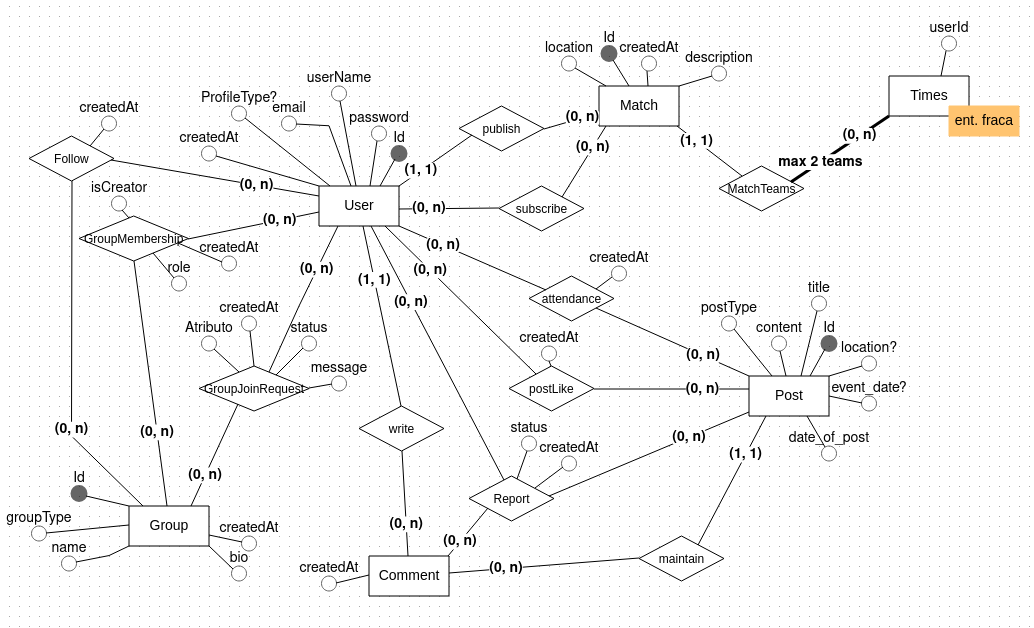
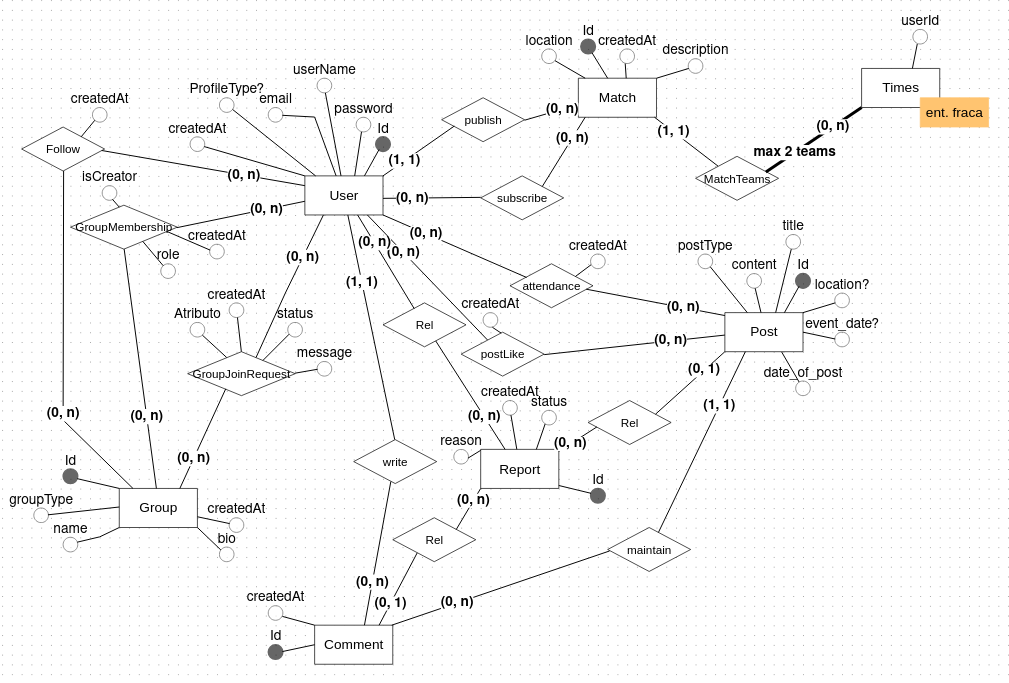
docs(arquitetura_ata): descrição do MER e criação de atas.

Changed region(s): [[0.0, 0.0, 1.0, 0.9984], [0.6452, 0.6656, 0.7066, 0.7261], [0.7066, 0.6959, 0.7374, 0.7564]]

diff --git a/docs/arquitetura/definicoes_gerais.md b/docs/arquitetura/definicoes_gerais.md
@@ -9,34 +9,40 @@
 O sistema adota o **estilo arquitetural cliente-servidor**, amplamente utilizado em aplicações que exigem comunicação estruturada entre uma interface de usuário e um servidor central responsável pelo processamento e persistência dos dados.
 
 Nesse modelo, existe uma **divisão clara de responsabilidades**:
+
 - O **cliente** é responsável pela interação com o usuário e pela coleta/envio de informações.  
+
 - O **servidor** executa as regras de negócio, processa as requisições e gerencia o acesso seguro aos dados.
 
 Essa separação facilita a **escalabilidade, manutenção e evolução** do sistema, permitindo que as camadas sejam desenvolvidas e atualizadas de forma independente.
 
 ## Componentes Conceituais do Sistema
 
-1. **Frontend (Cliente):**
-   - Desenvolvido em **React Native**, possibilitando o uso do sistema em **dispositivos móveis (Android e iOS)**.
+1. **Frontend (Cliente):** 
+
+      - Desenvolvido em **React Native**, possibilitando o uso do sistema em **dispositivos móveis (Android e iOS)**.
    - Responsável pela interface e experiência do usuário (UI/UX), com base em protótipos elaborados no **Figma**.
    - Consome os serviços do backend por meio de **requisições HTTP/HTTPS**, trocando dados no formato **JSON**.
    - Implementa as principais funcionalidades de interação, como autenticação, exibição de dados e envio de formulários.
 
 2. **Backend (Servidor):**
-   - Implementa uma **API RESTful**, centralizando as regras de negócio e o controle de acesso.
+
+      - Implementa uma **API RESTful**, centralizando as regras de negócio e o controle de acesso.
    - Recebe requisições dos clientes, processa as informações e retorna respostas estruturadas.
    - Gerencia a lógica de autenticação, autorização e persistência de dados.
    - Utiliza padrões de organização como **MVC (Model-View-Controller)** ou equivalentes, garantindo modularidade e clareza.
    - Interage com o banco de dados via **Prisma ORM**, simplificando consultas, migrações e manutenção do esquema de dados.
 
 3. **Banco de Dados:**
-   - Utiliza o **PostgreSQL**, um sistema gerenciador de banco de dados relacional (SGBD) robusto e open source.
+
+      - Utiliza o **PostgreSQL**, um sistema gerenciador de banco de dados relacional (SGBD) robusto e open source.
    - Responsável pelo **armazenamento seguro e persistente** das informações do sistema.
    - Oferece recursos avançados como **integridade referencial**, **transações ACID** e **consultas otimizadas**.
    - O **Prisma ORM** atua como camada de abstração, permitindo que o backend execute operações no banco de dados de forma segura, tipada e eficiente.
 
 4. **Camada de Comunicação:**
-   - A comunicação entre cliente e servidor é feita via **protocolo HTTP/HTTPS**.
+
+      - A comunicação entre cliente e servidor é feita via **protocolo HTTP/HTTPS**.
    - Segue o padrão **REST**, com endpoints organizados por recursos.
    - Os dados trafegam em formato **JSON**, garantindo compatibilidade entre plataformas.
    - A autenticação é realizada por meio de **tokens JWT**, assegurando sessões seguras e controle de permissões.
@@ -53,9 +59,6 @@ Essa separação facilita a **escalabilidade, manutenção e evolução** do sis
 > **Resumo:**  
 > O modelo cliente-servidor foi adotado por proporcionar uma estrutura modular, segura e escalável.  
 > A combinação de **React Native** para o cliente, **PostgreSQL + Prisma** para persistência de dados e **Figma** como ferramenta de design oferece uma base sólida para o desenvolvimento e evolução do sistema.
-
-
-entrega: `Texto técnico`
 
 ### 2.1.2  Justificativa de escolha
 > Justificar tecnicamente a arquitetura escolhida, relacionando-a com os requisitos funcionais e não funcionais do sistema.

diff --git a/docs/arquitetura/abstracao_implemantacao.md b/docs/arquitetura/abstracao_implemantacao.md
@@ -20,7 +20,32 @@ O Modelo Entidade-Relacionamento (MER) do sistema foi desenvolvido para represen
 <p align="center"><em>Figura 2.4.1 - Modelo Entidade-Relacionamento (MER) do Sistema</em></p>
 <p align="center"><em>Fonte: <a href="https://github.com/CODEbugging3000">Gabriel Alves</a></em></p>
 
+O MER inclui as seguintes entidades principais:
 
+- **User (Usuário):** Representa os usuários do sistema, com atributos principais como ID, nome, userName, email e senha, ProfileType (tipo de perfil).
+- **Group (Grupo):** Representa grupos de usuários, com atributos como ID, nome, bio, groupType (tipo de grupo que pode ser ATLÉTICA ou AMADOR).
+- **Post (Publicação):** Representa as publicações feitas pelos usuários admins de grupos, contendo atributos como ID, title, content (conteúdo), date_of_post (data e hora da publicação), postType (tipo de publicação que pode ser EVENTO ou GERAL), location e event_date opcionais para eventos.
+- **Comment (Comentário):** Representa os comentários feitos pelos usuários nas publicações, com atributos como ID, content (conteúdo) e createdAt (data e hora do comentário).
+- **Match (Partida):** Representa partidas esportivas organizadas por grupos, com atributos como ID, home_team (time da casa), away_team (time visitante), match_date (data e hora da partida), location (local) e score_home e score_away para o placar.
+- **Teams (Times):** Entidade fraca que representa os times associados as partidas, com apenas um atributo userId.
+- **Report (Denúncia):** Representa denúncias feitas por usuários contra publicações ou comentários, com atributos como ID, reason (motivo) e createdAt (data e hora da denúncia).
+
+Os relacionamentos entre as entidades são definidos para refletir as interações e dependências do sistema, como a associação entre usuários e grupos, publicações e comentários, e partidas e times. Foram identificados os tipos de relacionamentos (1:1, 1:N, N:M) e as cardinalidades para garantir a integridade dos dados.
+
+Os relacionamentos principais incluem:
+- Um **User** pode pertencer a muitos **Groups** (N:M), e um **Group** pode ter muitos **Users**.
+- Um **User** pode seguir **(Follow)** muitos **Groups** (N:M), e um **Group** pode ser seguido por muitos **Users**.
+- Um **User** pode criar muitas **Posts** (1:N), e cada **Post** é criado por um único **User** desde que seja um admin de um **Group**.
+- Um **Post** pode ter muitos **Comments** (1:N), e cada **Comment** é associado a um único **Post**.
+- Um **User** pode curtir **(postLike)** muitas **Posts** (N:M), e um **Post** pode ser curtido por muitos **Users**.
+- Um **User** pode fazer vários **Comments** (1:N), e cada **Comment** é feito por um único **User**.
+- Um **User** pode marcar presença **(attendance)** em muitos **Events** (N:M), e um **Event** pode ter muitos **Users** presentes.
+- Um **User** pode denunciar **(Report)** muitas **Posts** e **Comments** (1:N), e cada **Report** é feito por um único **User**.
+- Um **User** pode criar **(publish)** muitas **Matches** (1:N), e cada **Match** é criada por um único **User**.
+- Um **User** pode se inscrever em muitas **Matches** (N:M), e uma **Match** pode ter muitos **Users** inscritos.
+- Uma **Match** tem dois **Teams** (1:2), e cada **Team** está associada a uma única **Match**.
+
+Os atributos de cada entidade foram cuidadosamente definidos para capturar todas as informações necessárias para o funcionamento do sistema, garantindo que o modelo atenda aos requisitos funcionais e não funcionais estabelecidos, sabendo que podem sofrer alterações futuras de acordo com a evolução do projeto.
 
 ## 2.5 Visão de Implantação
 

diff --git a/docs/atas/ata8.md b/docs/atas/ata8.md
@@ -1,0 +1,63 @@
+#### Data: 27/10/2025
+
+#### Horário de início: 20:00 - 22:00
+
+## Participantes:
+
+- Gabriel Alves
+- Rodrigo Àtila
+- Ângelo Cordova
+- Gabriel Mota
+- Matheus Pinheiro
+- Giovana Martins de Brito
+- Samuel Leite
+- Pedro Inácio Santos
+- Yan Rodrigues
+
+## Objetivos
+
+Sprint Review e Sprint Planning
+
+## Resumo
+
+Na reunião de hoje, realizamos a Sprint Review da sprint atual, onde cada dupla apresentou o progresso das funcionalidades atribuídas. Discutimos os desafios enfrentados e as soluções implementadas e o andamento das tarefas. Após a revisão, planejamos as próximas etapas do projeto, definindo novas tarefas e objetivos para a próxima sprint mesmo com pendências da sprint anterior.
+
+#### Dupla 1 (`Auth+`): Diagramação e modelagem de dados integração de autenticação frontend e backend, .
+
+- Gabriel Alves
+- Yan Santos 
+
+#### Dupla 2 (`Frontend`): Desenvolvimento da requisição http do frontend para o backend e tela de seleção de perfil com requisição PUT/PATCH para atualização do perfil do usuário.
+
+- Matheus
+- Rodrigo
+
+
+#### Dupla 3 (`Backend`): backend feed de posts de quem publica, 
+
+- Gabriel Mota
+- Guilherme
+
+#### Dupla 4 (`Frontend`): Desenvolvimento do frontend da tela de login do app e integração com autenticação JWT.
+
+- Samuel
+- Ângelo
+
+
+#### Dupla 5 (`Backend`): Desenvolvimento da API para login com JWT, backend feed de posts de quem interage.
+
+- Pedro 
+- Giovana 
+
+---
+
+## Próxima Reunião
+
+**Data:** 03/11 (segunda-feira)  
+**Objetivo:** Sprint Review, Sprint planning e 
+
+### `Próximas etapas`:
+
+- Término de funcionalidades pendentes e proseguimento para as próximas funcionalidades do backlog.
+
+---
